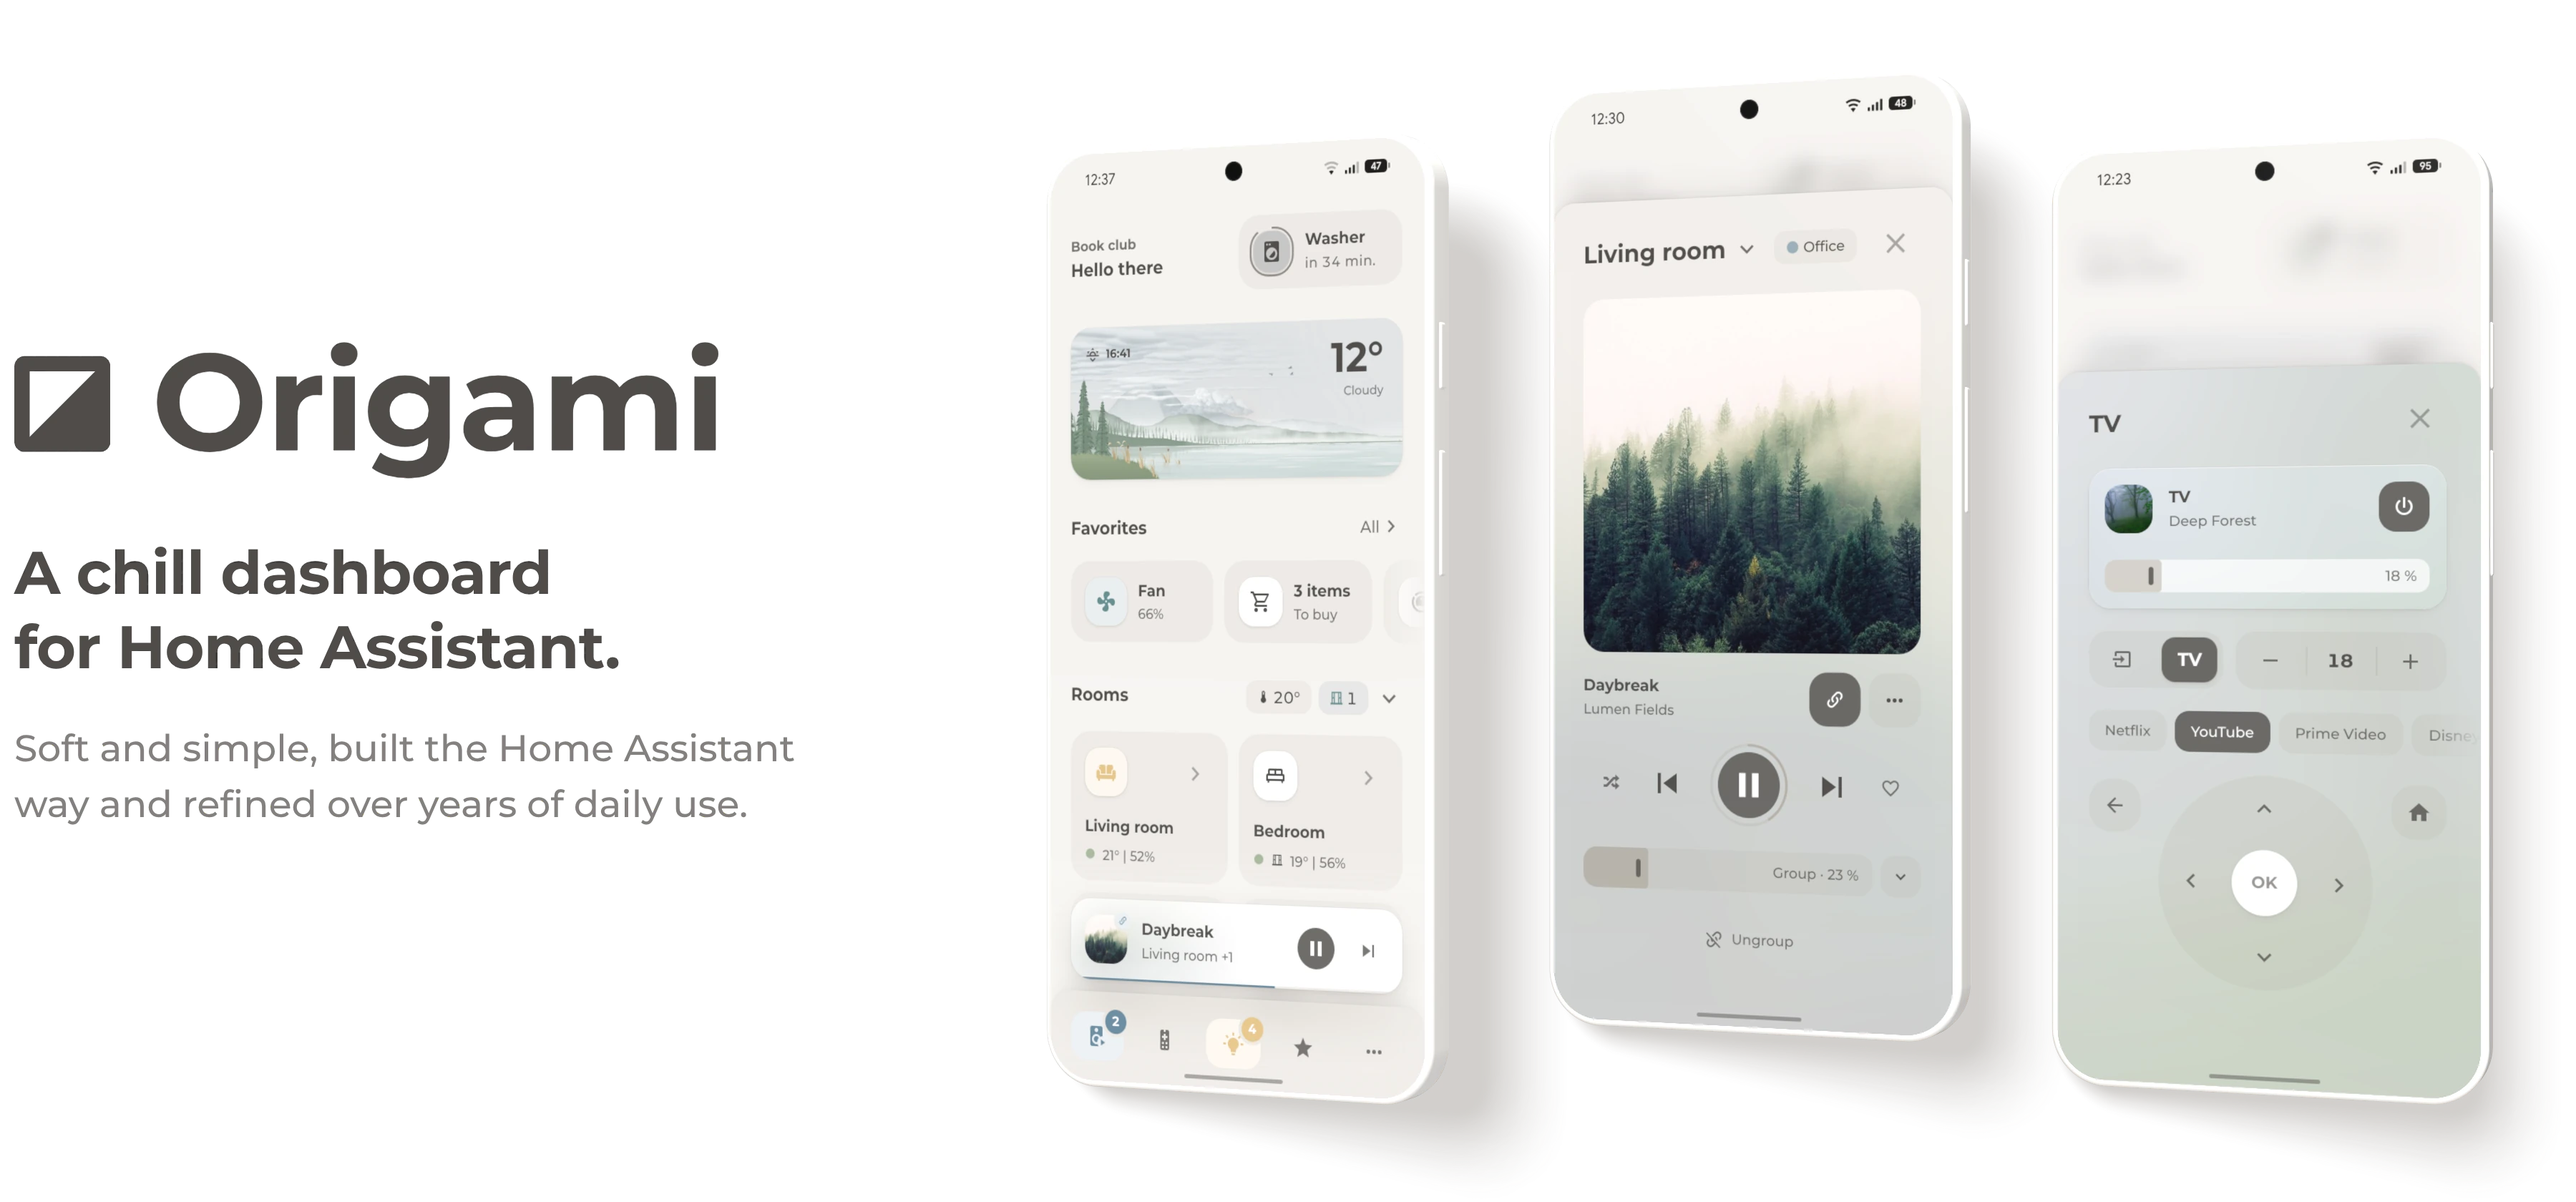
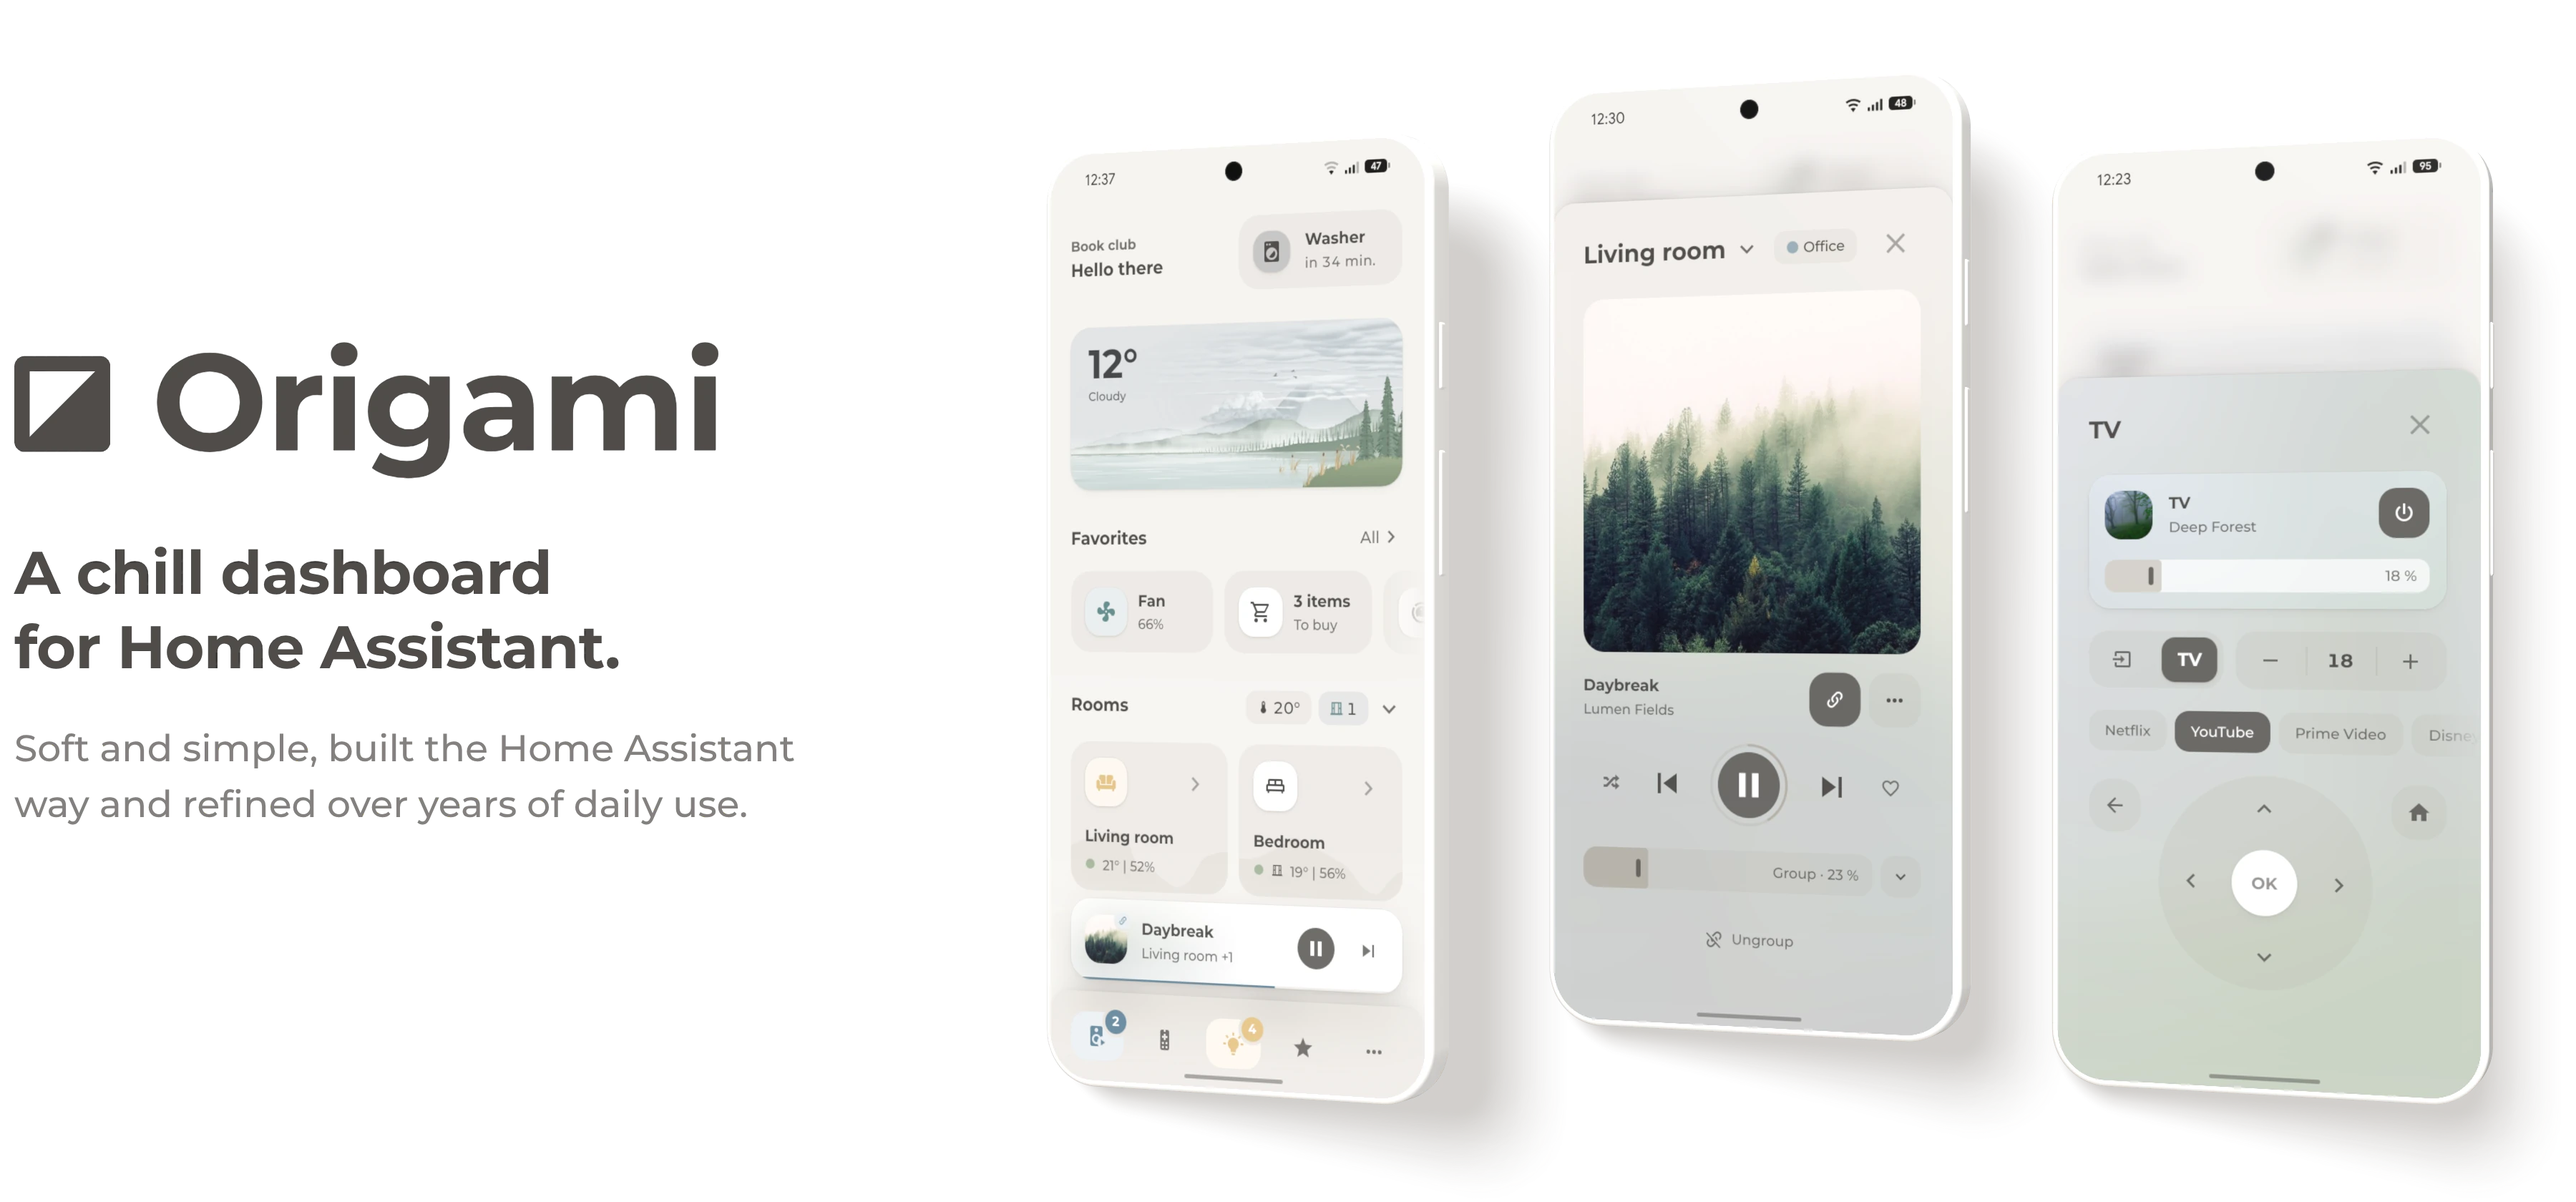
Light hero with the new diorama and the room cards' graphs

diff --git a/README.md b/README.md
@@ -13,7 +13,7 @@ If just one person used it, it would probably look and work differently. But oth
 
 <picture>
   <source media="(prefers-color-scheme: dark)" srcset="https://raw.githubusercontent.com/hazymorning/origami/main/images/v3/hero-dark.webp">
-  <img alt="Origami on three phones, with the home view, the music pop-up and the TV remote" src="https://raw.githubusercontent.com/hazymorning/origami/main/images/v3/hero-light.webp">
+  <img alt="Origami on three phones, with the home view, the music pop-up and the TV remote" src="https://raw.githubusercontent.com/hazymorning/origami/next/images/v3/hero-light.webp">
 </picture>
 
 > [!NOTE]
